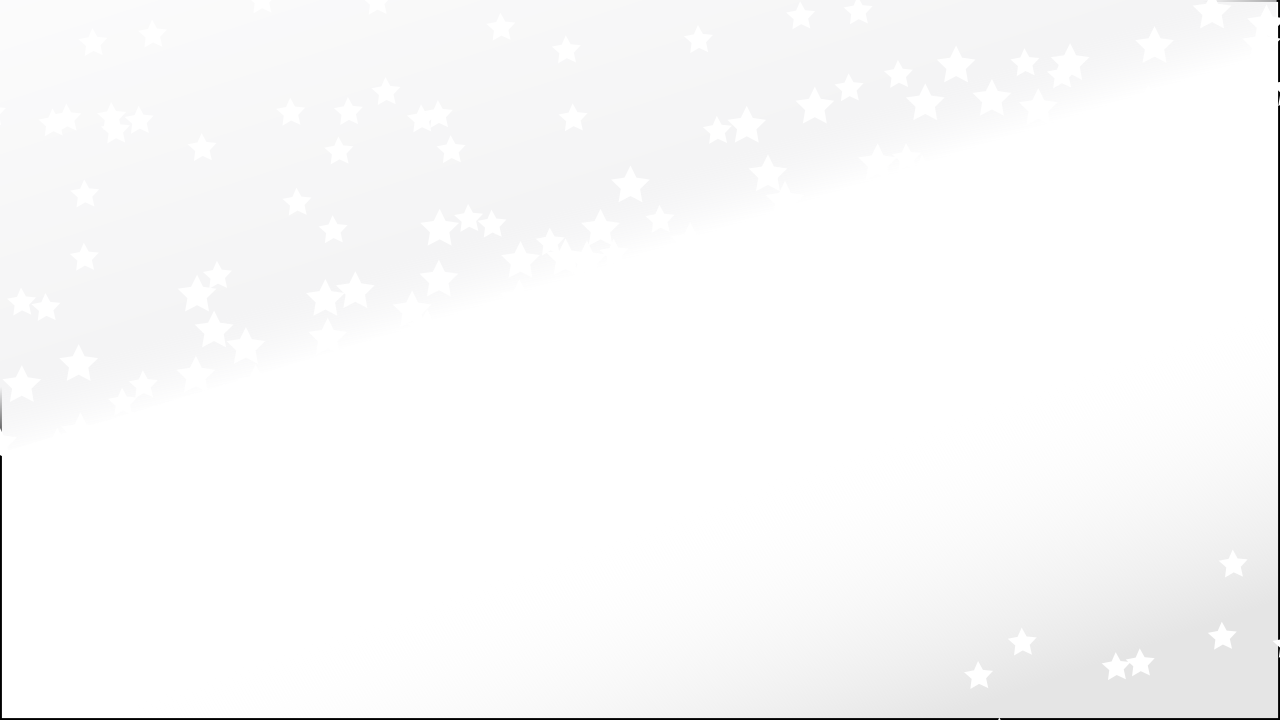
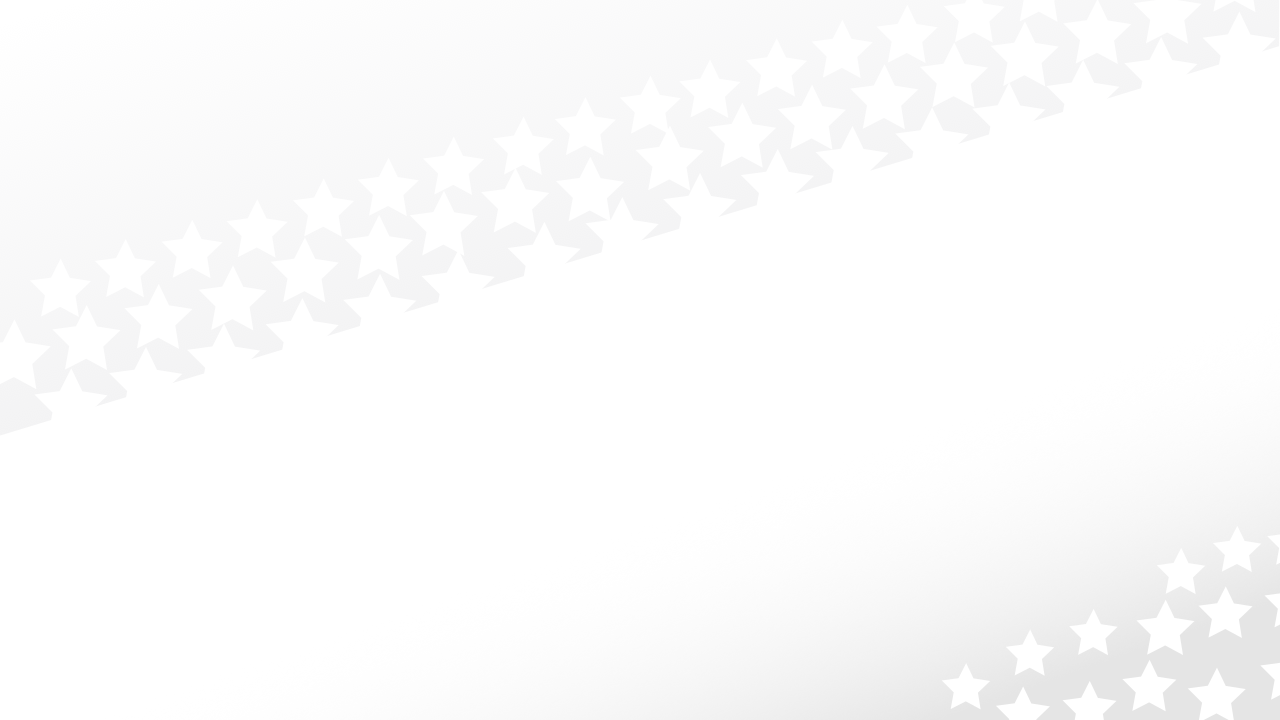
Feat: Menu Ui terminada

Changed region(s): [[0.0, 0.825, 1.0, 1.0], [0.9688, 0.0, 1.0, 0.0306]]

diff --git a/core/src/main/java/src/screens/uiScreens/MenuScreen.java b/core/src/main/java/src/screens/uiScreens/MenuScreen.java
@@ -18,8 +18,14 @@ public class MenuScreen extends UIScreen {
 
     public MenuScreen(Main main) {
         super(main);
-        FreeTypeFontGenerator generator = new FreeTypeFontGenerator(Gdx.files.internal("ui/fonts/Bricolage_Grotesque/static/BricolageGrotesque_48pt-Regular.ttf"));
+        FreeTypeFontGenerator generator = new FreeTypeFontGenerator(Gdx.files.internal("ui/fonts/Bricolage_Grotesque/BricolageGrotesque_48pt-Regular.ttf"));
         fontBri = FontCreator.createFont(48, Color.WHITE, generator);
+
+        Image bgImage = new Image(main.getAssetManager().get("ui/bg/menuBg.png", Texture.class));
+
+        Texture kirbyTexture = main.getAssetManager().get("ui/bg/kirbyBg.png", Texture.class);
+        kirbyTexture.setFilter(Texture.TextureFilter.Linear, Texture.TextureFilter.Linear);
+        Image kirbyImage = new Image(kirbyTexture);
 
         Texture lineTexture = main.getAssetManager().get("ui/bg/lineBg.png", Texture.class);
         lineTexture.setFilter(Texture.TextureFilter.Linear, Texture.TextureFilter.Linear);
@@ -67,8 +73,11 @@ public class MenuScreen extends UIScreen {
 
         drawableUp = new TextureRegionDrawable(main.getAssetManager().get("ui/buttons/button.png", Texture.class));
         drawableHover = new TextureRegionDrawable(main.getAssetManager().get("ui/buttons/buttonHover.png", Texture.class));
-        ImageTextButton.ImageTextButtonStyle imageTextButtonStyle = new ImageTextButton.ImageTextButtonStyle(drawableUp, drawableHover, drawableHover, fontBri);
+        ImageTextButton.ImageTextButtonStyle imageTextButtonStyle = new ImageTextButton.ImageTextButtonStyle();
+        imageTextButtonStyle.up = drawableUp;
+        imageTextButtonStyle.font = fontBri;
         imageTextButtonStyle.over = drawableHover;
+        imageTextButtonStyle.overFontColor = new Color(0.01f,0.15f,0.58f,1f);
 
         ImageTextButton playButton = new ImageTextButton("Jugar", imageTextButtonStyle);
         playButton.addListener(new ClickListener() {
@@ -94,7 +103,7 @@ public class MenuScreen extends UIScreen {
             }
         });
 
-        LayersManager layersManager = new LayersManager(stageUI, 5);
+        LayersManager layersManager = new LayersManager(stageUI, 7);
 
         layersManager.setZindex(0);
         layersManager.getLayer().top();
@@ -105,7 +114,7 @@ public class MenuScreen extends UIScreen {
         layersManager.getLayer().top();
         layersManager.getLayer().add().expandX();
         layersManager.getLayer().add(infoButton).size(64);
-        layersManager.getLayer().add(exitButton).size(64).pad(20);
+        layersManager.getLayer().add(exitButton).size(64).pad(25);
 
         layersManager.setZindex(2);
         layersManager.getLayer().top();
@@ -114,18 +123,26 @@ public class MenuScreen extends UIScreen {
 
         layersManager.setZindex(3);
         layersManager.getLayer().top();
-        layersManager.getLayer().add(lineImage).expandX().fillX().padTop(55);
+        layersManager.getLayer().add(lineImage).expandX().fillX().padTop(65);
 
         layersManager.setZindex(4);
-        layersManager.getLayer().setDebug(true);
         layersManager.getLayer().left();
-        layersManager.getLayer().padLeft(270);
-        layersManager.getLayer().padTop(150);
-        layersManager.getLayer().add(playButton).width(400).pad(10);
+        layersManager.getLayer().padLeft(250);
+        layersManager.getLayer().padTop(130);
+        layersManager.getLayer().add(playButton).width(600).pad(10);
         layersManager.getLayer().row();
-        layersManager.getLayer().add(multiplayerButton).width(400).pad(10);
+        layersManager.getLayer().add(multiplayerButton).width(600).pad(10);
         layersManager.getLayer().row();
-        layersManager.getLayer().add(optionButton).width(250).left().pad(10);
+        layersManager.getLayer().add(optionButton).width(400).left().pad(10);
+
+        layersManager.setZindex(5);
+        layersManager.getLayer().right();
+        layersManager.getLayer().add().expand(0,6);
+        layersManager.getLayer().row();
+        layersManager.getLayer().add(kirbyImage).expandY().fill(1,1).bottom().pad(25);
+
+        layersManager.setZindex(6);
+        layersManager.getLayer().add(bgImage).grow();
     }
 
     @Override

diff --git a/core/src/main/java/src/main/Main.java b/core/src/main/java/src/main/Main.java
@@ -100,6 +100,8 @@ public class Main extends Game {
         assetManager.load("ui/bg/aroBg.png", Texture.class);
         assetManager.load("ui/bg/aroColorBg.png", Texture.class);
         assetManager.load("ui/bg/aroColorBg.png", Texture.class);
+        assetManager.load("ui/bg/menuBg.png", Texture.class);
+        assetManager.load("ui/bg/kirbyBg.png", Texture.class);
 
         assetManager.load("background/backgroundBeach.png", Texture.class);
         assetManager.load("world/entities/breakBlock.png", Texture.class);
@@ -213,7 +215,7 @@ public class Main extends Game {
         System.out.println("Assets loaded.");
 
         soundManager = new SoundManager();
-        SoundManager.setVolumeMusic(0.1f);
+        SoundManager.setVolumeMusic(0.0f);
         soundManager.addSoundTrack(soundTrackType.MENU.toString());
         soundManager.addMusicToSoundTrack(assetManager.get("music/meow.mp3"), soundTrackType.MENU.toString());
         soundManager.addMusicToSoundTrack(assetManager.get("music/anomalocaris.mp3"), soundTrackType.MENU.toString());
@@ -236,7 +238,7 @@ public class Main extends Game {
         screensList.add(new MiniDuckScreen(this, (GameScreen) screensList.get(Screens.GAME.ordinal())));
         screensList.add(new OdsPleaseScreen(this, (GameScreen) screensList.get(Screens.GAME.ordinal())));
 
-        changeScreen(Screens.INTRO);
+        changeScreen(Screens.MENU);
         soundManager.setSoundTracks(soundTrackType.MENU.toString());
     }
 
